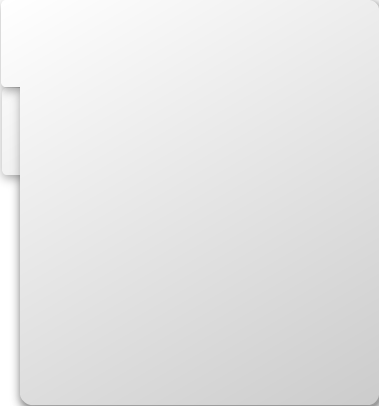
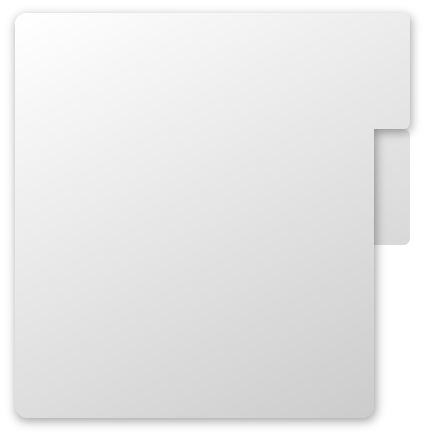
patient clipboard

Changed region(s): [[0.0, 0.1773, 1.0, 1.0], [0.9868, 0.0, 1.0, 0.0296]]

diff --git a/media/css/main.less b/media/css/main.less
@@ -185,52 +185,92 @@ ul#breadcrumbs {
   }
   
   .tabscontent {
-    margin: 91px 0 0 10px;    
-    width: 378px;
-    height: 405px;
+  margin: 78px 0 0 16px;
+  width: 378px;
+  height: 405px;
         
+    .tabpage ul {
+      width: 300px;
+    }
+      
+       
     h2 {
       margin: 0;
       font-size: 14px;
     }
-  }
-  
-  
-  #tabpage_1 {
-  background: top no-repeat url('/site_media/img/tab1.png');
-  background-size: 100% 100%;
-  width: 345px;
-  height: 394px;
-  float: left;
-  font-size: 13px;
-  padding: 10px 0 0 33px;
-  box-shadow: 1px #ccc;
-   }
-     
-   #tabpage_2 {
-  background: top no-repeat url('/site_media/img/tab2.png');
-  background-size: 100% 100%;
-  width: 345px;
-  height: 394px;
-  float: left;
-  font-size: 13px;
-  padding: 10px 0 0 33px;
-  box-shadow: 1px #ccc;
-   }
-   
+       
     ul li {
          list-style-type: none;
          margin: 0 0 0 -25px;
-       }
-       
-  .tabs {
-     
-     ul li {
-       display: inline;
-       margin: 0 40px 0 -25px;
-     }
+       } 
   }
   
+  
+    #tabpage_1 {
+background: top no-repeat url('/site_media/img/tab1.png');
+background-size: 100% 100%;
+width: 401px;
+height: 425px;
+float: left;
+font-size: 13px;
+padding: 10px 0 0 24px;
+   }
+     
+    #tabpage_2 {
+background: top no-repeat url('/site_media/img/tab2.png');
+background-size: 100% 100%;
+width: 401px;
+height: 425px;
+float: left;
+font-size: 13px;
+padding: 10px 0 0 24px;
+   }
+
+  .tabs {
+     
+    ul li {
+     list-style-type: none;
+     cursor: pointer;
+    }
+   
+    &.rotate {
+      position: relative;
+      top: 142px;
+      left: 201px;
+    }
+    
+    #tabHeader_1 {
+      display: inline;
+      position: relative;
+      left: 122px;
+    }
+    
+    #tabHeader_2 {
+      display: inline;
+      right: 83px;
+      position: relative;
+    }
+
+    
+  }
+  
+.rotate {
+  -webkit-transform: rotate(-90deg);
+  -moz-transform: rotate(-90deg);
+  -ms-transform: rotate(-90deg);
+  -o-transform: rotate(-90deg);
+  transform: rotate(-90deg);
+
+  /* also accepts left, right, top, bottom coordinates; not required, but a good idea for styling */
+  -webkit-transform-origin: 50% 50%;
+  -moz-transform-origin: 50% 50%;
+  -ms-transform-origin: 50% 50%;
+  -o-transform-origin: 50% 50%;
+  transform-origin: 50% 50%;
+
+  /* Should be unset in IE9+ I think. */
+  filter: progid:DXImageTransform.Microsoft.BasicImage(rotation=3);
+}  
 
 }
   
